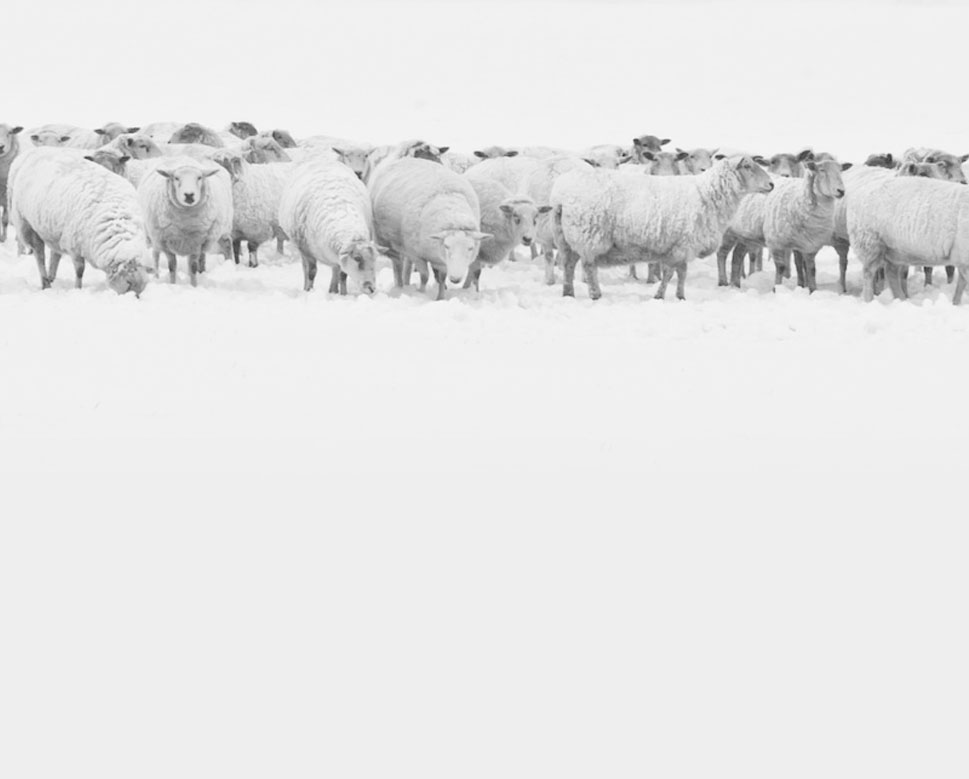
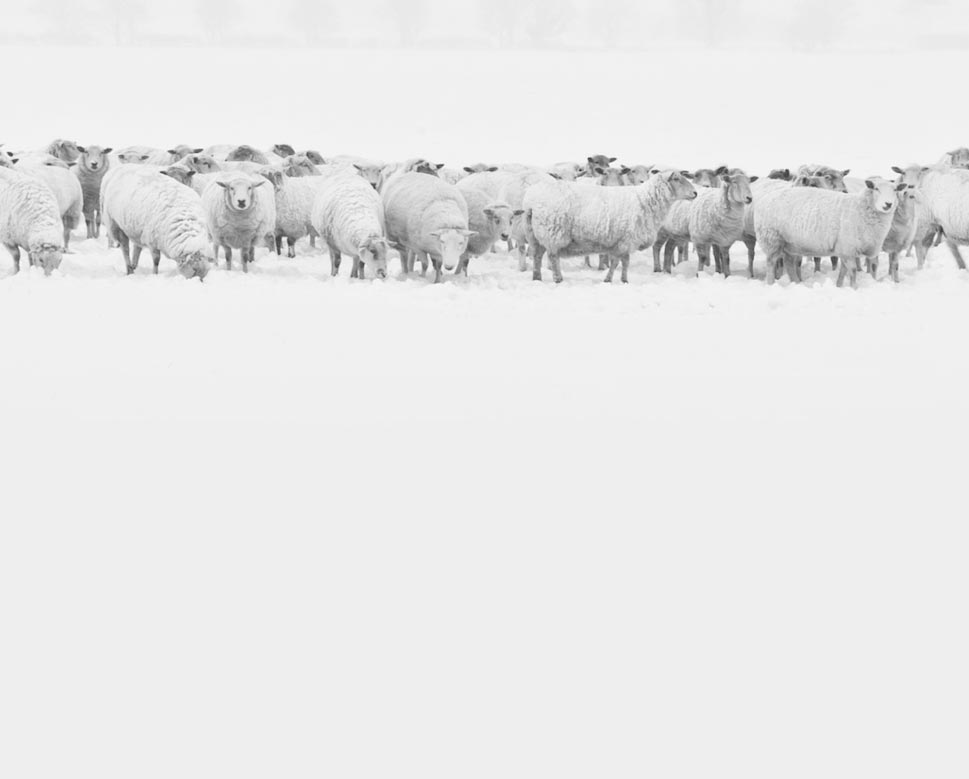
some editing

Changed region(s): [[0.0, 0.154, 1.0, 0.4005]]

diff --git a/assets/styles/main.min.css b/assets/styles/main.min.css
@@ -1,1 +1,1 @@
-a{text-decoration:none;color:white}a:hover{text-decoration:none}.smaller{font-size:.8rem;text-align:right;padding-top:.5rem}.highlight{background-color:#fffbcc;border-left:solid #d1cc96 8px;padding:.6rem;font-size:.9rem;text-align:left;margin:0 .5rem}.highlight p{margin-bottom:0}.pointer{cursor:pointer}.pad-r{padding-right:.5rem}h1{font-family:"Rajdhani",sans-serif;font-size:2.5em}h2{font-family:"Rajdhani",sans-serif;font-size:2.5em}h3{font-family:"Rajdhani",sans-serif;font-size:2em}h4{font-family:"Rajdhani",sans-serif;font-size:1.5em}h5{font-family:"Rajdhani",sans-serif;font-size:1em}p{font-family:"Ovo",serif;size:1rem}body{font-family:"Ovo",serif;size:1rem}.orange-img{height:5rem;width:5rem;display:inherit;padding-left:.25rem}header{height:100vh;background:url("/assets/img/cover-image-4.jpg") center center;background-size:cover;color:#f1f1f1}header h1{font-family:"Rajdhani",sans-serif;font-size:4em;font-weight:700}.shade{top:0;bottom:0;left:0;right:0;position:absolute;display:flex;align-items:flex-end}.intro-box{padding-bottom:2rem}.intro-box h1{margin-bottom:0}.header-icons{display:flex;justify-content:space-between;font-size:1.5rem}.header-icons a{color:#ff7314}.header-icons a:hover{color:#ffb07a}.main-section{padding:5rem 0;color:#333}.flexor-2{display:flex;align-items:center}.orange-btn{background-color:#ff7314;color:white;transition:all .3s linear}.orange-btn:hover{background-color:#e05b00}.circle{border-radius:100%;height:125px;width:125px;margin:1rem auto .5rem auto}.education-chunk{border-bottom:5px solid #ff7314}.education-highlight{border-bottom:10px solid #ff7314;margin-bottom:1rem}.arrow{width:0;height:0;border-left:2rem solid transparent;border-right:2rem solid transparent;margin:auto;margin-bottom:2rem}.orange{border-top:1rem solid #ff7314}.blue{border-top:1rem solid #6caedf}.wrk-history-chunk{border-bottom:5px solid #6caedf}.work-highlight{border-bottom:10px solid #6caedf;margin-bottom:1rem}.teal{border-bottom:5px solid #333;margin-bottom:1rem}.hobby-holder{display:flex;flex-wrap:wrap;justify-content:center}#hob-info{transition:all .3s linear}.hobbies{margin:.25rem;flex-basis:40%}.hobby-images{transition:all .3s linear;width:3.5rem;height:3.5rem;border-radius:10px;padding:.5rem;background-color:#333}.hobby-images:hover{background-color:#ff7314}.skills-section{background-image:url("/assets/img/circles-pattern-d.png");color:#ff7314}.skills-section h1{font-family:"Rajdhani",sans-serif;font-size:3em}.card-body{padding:.5rem}.skills-holder{display:flex;padding:5rem 5rem;justify-content:center;align-items:center}.skills-title{margin-right:3rem;flex-basis:60%;text-align:center}.skills-box{font-size:5rem;flex-basis:40%;text-align:center}.flexor{display:flex;flex-wrap:wrap;align-items:center}.projects-section{background-image:url("/assets/img/flock-projects.jpg");background-size:cover;background-position:top;color:#333}.project-info p{margin-bottom:0}.projects-holder{padding:5rem 2rem}.projects-holder h1{font-size:3em}.projects-title{text-align:center;padding-bottom:1em}.projects-box{display:flex;justify-content:space-around;flex-wrap:wrap}.projects-box h4{font-size:1.75rem;font-weight:700}.projects-box a{font-weight:700;color:#ff7314}.projects-box a:hover{color:#e05b00}.projects{margin:1rem;flex-basis:40%;text-align:center}.projects p{text-align:left}.purp-shadow{box-shadow:0 0 21px 1px #b8b8b8;margin-bottom:1rem}.contact-section{color:#333}.contact-shade{top:0;bottom:0;left:0;right:0;background:url("/assets/img/circles-pattern.png") center center;padding:2rem 0}#contacto{text-align:center;font-size:3em}.form-group label{font-weight:700;font-family:"Rajdhani",sans-serif}.footy{background-size:cover}.footy-pad{padding:2rem 0}@media screen and (max-width: 720px){.skills-holder{flex-direction:column;padding:5rem 1rem}.skills-title{flex-basis:30%;margin-right:0}.skills-box{flex-basis:70%}}@media screen and (max-width: 576px){.left-sidebar{padding-bottom:3rem}.hobbies{flex-basis:10%}.sidebar-navi{margin:0 4em}header h1{font-size:3.25em}}
+a{text-decoration:none;color:white}a:hover{text-decoration:none}li a{color:#ff7314}.smaller{font-size:.8rem;text-align:right;padding-top:.5rem}.highlight{background-color:#fffbcc;border-left:solid #d1cc96 8px;padding:.6rem;font-size:.9rem;text-align:left;margin:0 .5rem}.highlight p{margin-bottom:0}.pointer{cursor:pointer}.pad-r{padding-right:.5rem}h1{font-family:"Rajdhani",sans-serif;font-size:2.5em}h2{font-family:"Rajdhani",sans-serif;font-size:2.5em}h3{font-family:"Rajdhani",sans-serif;font-size:2em}h4{font-family:"Rajdhani",sans-serif;font-size:1.5em}h5{font-family:"Rajdhani",sans-serif;font-size:1em}p{font-family:"Ovo",serif;font-size:1.1rem}li{font-size:1.1rem}body{font-family:"Ovo",serif;size:1rem}.orange-img{height:5rem;width:5rem;display:inherit;padding-left:.25rem}header{height:100vh;background:url("/assets/img/cover-image-4.jpg") center center;background-size:cover;color:#f1f1f1}header h1{font-family:"Rajdhani",sans-serif;font-size:4em;font-weight:700}.shade{top:0;bottom:0;left:0;right:0;position:absolute;display:flex;align-items:flex-end}.intro-box{padding-bottom:2rem}.intro-box h1{margin-bottom:0}.header-icons{display:flex;justify-content:space-between;font-size:1.5rem}.header-icons a{color:#ff7314}.header-icons a:hover{color:#ffb07a}.main-section{padding:5rem 0;color:#333}.flexor-2{display:flex;align-items:center}.orange-btn{background-color:#b570ae;color:white;transition:all .3s linear}.orange-btn:hover{background-color:#9f5398}.circle{border-radius:100%;height:125px;width:125px;margin:1rem auto .5rem auto}.education-chunk{border-bottom:5px solid #ff7314}.education-highlight{border-bottom:10px solid #ff7314;margin-bottom:1rem}.arrow{width:0;height:0;border-left:2rem solid transparent;border-right:2rem solid transparent;margin:auto;margin-bottom:2rem}.orange{border-top:1rem solid #ff7314}.blue{border-top:1rem solid #6caedf}.wrk-history-chunk{border-bottom:5px solid #6caedf}.work-highlight{border-bottom:10px solid #6caedf;margin-bottom:1rem}.teal{border-bottom:5px solid #333;margin-bottom:1rem}.hobby-holder{display:flex;flex-wrap:wrap;justify-content:center}#hob-info{transition:all .3s linear}.hobbies{margin:.25rem;flex-basis:40%}.hobby-images{transition:all .3s linear;width:3.5rem;height:3.5rem;border-radius:10px;padding:.5rem;background-color:#333}.hobby-images:hover{background-color:#ff7314}.skills-section{background-image:url("/assets/img/circles-pattern-d.png");color:#ff7314}.skills-section h1{font-family:"Rajdhani",sans-serif;font-size:3em}.card-body{padding:.5rem}.skills-holder{display:flex;padding:5rem 5rem;justify-content:center;align-items:center}.skills-title{margin-right:3rem;flex-basis:60%;text-align:center}.skills-box{font-size:5rem;flex-basis:40%;text-align:center}.flexor{display:flex;flex-wrap:wrap;align-items:center}.projects-section{background-image:url("/assets/img/flock-projects.jpg");background-size:contain;background-repeat:repeat-x;background-position:top;color:#333}.project-info p{margin-bottom:0}.projects-holder{padding:5rem 2rem}.projects-holder h1{font-size:3em}.projects-title{text-align:center;padding-bottom:1em}.projects-box{display:flex;justify-content:space-around;flex-wrap:wrap}.projects-box h4{font-size:1.75rem;font-weight:700}.projects-box a{font-weight:700;color:#ff7314}.projects-box a:hover{color:#e05b00}.projects{margin:1rem;flex-basis:30%;text-align:center}.projects p{text-align:left}.purp-shadow{box-shadow:0 0 21px 1px #b8b8b8;margin-bottom:1rem}.contact-section{color:#333}.contact-shade{top:0;bottom:0;left:0;right:0;background:url("/assets/img/circles-pattern.png") center center;padding:2rem 0}#contacto{text-align:center;font-size:3em}.form-group label{font-weight:700;font-family:"Rajdhani",sans-serif}.footy{background-size:cover}.footy-pad{padding:2rem 0}@media screen and (max-width: 720px){.skills-holder{flex-direction:column;padding:5rem 1rem}.skills-title{flex-basis:30%;margin-right:0}.skills-box{flex-basis:70%}}@media screen and (max-width: 576px){.left-sidebar{padding-bottom:3rem}.hobbies{flex-basis:10%}.sidebar-navi{margin:0 4em}header h1{font-size:3.25em}}

diff --git a/index.html b/index.html
@@ -12,6 +12,7 @@
     <link href='//cdn.jsdelivr.net/devicons/1.8.0/css/devicons.min.css' rel='stylesheet'>
     <link href="https://use.fontawesome.com/releases/v5.0.4/css/all.css" rel="stylesheet">
     <link href="https://fonts.googleapis.com/css?family=Ovo|Rajdhani:400,700" rel="stylesheet">
+    <link rel="shortcut icon" sizes="32x32" href="https://michaellambs.github.io/assets/img/michael-lamb-lambchopps.ico">
     <link rel="stylesheet" href="assets/styles/main.css">
 
 </head>
@@ -128,7 +129,7 @@
                             <div class="flexor-2">
                                 <div class="pad-r">
                                     <h4>Boise CodeWorks</h4>
-                                    <h5><em>Boise, Idaho</em></h5>
+                                    <h5><em>Boise, Idaho</em> | Jan 2018-Apr 2018</h5>
                                 </div>
                                 <div>
                                     <a href="https://boisecodeworks.com/" target="_blank"><img class="pointer" src="./assets/img/code-logo.png" height="50"></a>
@@ -138,7 +139,7 @@
                             <div class="flexor-2">
                                 <div class="pad-r">
                                     <h4>Oregon State University</h4>
-                                    <h5><em>Corvallis, Oregon</em></h5>
+                                    <h5><em>Corvallis, Oregon</em> | Sept 2007-Dec 2011</h5>
                                 </div>
                                 <div>
                                     <a href="https://oregonstate.edu/" target="_blank"><img class="pointer" src="./assets/img/beavers.png" height="50"></a>
@@ -154,37 +155,41 @@
                                 <em>Boise, Idaho</em>
                             </h4>
                             <h5>Graphic Designer | <em>Oct 2016-June 2017 (temp position)</em></h5>
-                            <p>Verandah is a promotional products company. I created packaging, designed apparel, communicated
-                                art details to manufacturers, edited websites, and provided client presentations.</p>
+                            <ul>
+                                <li>Verandah is a promotional products company.</li>
+                                <li>Created packaging, designed apparel, communicated art details to manufacturers, edited websites, and provided client presentations.</li>
+                            </ul>
                             <h4>SurveyMonkey |
                                 <em>Portland, Oregon</em>
                             </h4>
                             <h5>Account Manager/Renewals | <em>Nov 2014-May 2016</em></h5>
-                            <p>I joined SurveyMonkey right after they acquired FluidSurveys. I maintained relationships with
-                                all sales assisted FluidSurveys customers - $4.3 million in yearly revenue. I managed customer
-                                accounts, renewed yearly subscriptions, and upsold licenses. I also maintained a less than
-                                10% churn rate. I worked daily with our legal, finance, and sales operation teams to complete
-                                contracts, invoice customers, forecast, and track growth.</p>
+                            <ul>
+                                <li>Joined SurveyMonkey right after they acquired FluidSurveys.</li>
+                                <li>Maintained relationships with all sales assisted FluidSurveys customers - $4.3 million in yearly revenue.</li>
+                                <li>Managed customer accounts, renewed yearly subscriptions, and upsold licenses.</li>
+                                <li>Retained a less than 10% churn rate.</li>
+                                <li>Worked daily with our legal, finance, and sales operation teams to complete contracts, invoice customers, forecast, and track growth.</li>
+                            </ul>
                             <h4>Sweatshorts.co |
                                 <em>Portland, Oregon</em>
                             </h4>
                             <h5>Content Creator/SEO/Owner | <em>2014-present</em></h5>
-                            <p>
-                                <em>Sweatshorts.co</em> is a niche clothing website that utilizes search engine optimization
-                                (SEO) to drive traffic and sales. During this endeavor I have taught myself SEO, how to rank
-                                on Google, advertising copy, email marketing, and most importantly, what type of content
-                                attracts links. Currently, my website is on the first page of Google for a keyword (sweat
-                                shorts) that exceeds 12k searches a month. This is a passion project - keeping me eager to
-                                learn more & more about content creation.
-                            </p>
+                            <ul>
+                                <li><a href="http://www.sweatshorts.co/" target="_blank">Sweatshorts.co</a> is a niche clothing website that utilizes search engine optimization (SEO) to drive traffic and sales.</li>
+                                <li>During this endeavor I have taught myself SEO, how to rank on Google, advertising copy, email marketing, and most importantly, what type of content attracts links.</li>
+                                <li>Currently, my website is on the first page of Google for a keyword (sweat shorts) that exceeds 12k searches a month.</li>
+                            </ul>
                             <h4>Gameday Media |
                                 <em>Portland, Oregon</em>
                             </h4>
                             <h5>Graphic Desinger | <em>June 2012-Nov 2013</em></h5>
-                            <p>I created and designed media guides for sporting events. I decided the layout and flow of 80-page
-                                media booklets. I worked with multiple file formats to produce articles, rosters, and content.
-                                I maintained the team’s visual identity while creating unique eye-popping designs. I completed
-                                work on strict print deadlines, including last-minute changes to exceed customer needs.</p>
+                            <ul>
+                                <li>Created and designed media guides for sporting events.</li>
+                                <li>Decided the layout and flow of 80-page media booklets.</li>
+                                <li>Worked with multiple file formats to produce articles, rosters, and content.</li>
+                                <li>Maintained the team’s visual identity while creating unique eye-popping designs.</li>
+                                <li>Completed work on strict print deadlines, including last-minute changes to exceed customer needs.</li>
+                            </ul>
                         </div>
                         <div class="arrow blue"></div>
                     </div>

diff --git a/assets/styles/main.sass b/assets/styles/main.sass
@@ -16,6 +16,10 @@ a
     &:hover
         text-decoration: none
 
+li
+    & a
+        color: $orange
+            
 .smaller
     font-size: .8rem
     text-align: right
@@ -56,7 +60,10 @@ h5
 
 p
     font-family: $font-p
-    size: 1rem
+    font-size: 1.1rem
+
+li
+    font-size: 1.1rem
 
 body
     font-family: $font-p
@@ -116,11 +123,11 @@ header
     align-items: center
 
 .orange-btn
-    background-color: $orange
+    background-color: $purple
     color: white
     transition: all .3s linear
     &:hover
-        background-color: darken($orange, 10)
+        background-color: darken($purple, 10)
 
 .circle
     border-radius: 100%
@@ -219,7 +226,8 @@ header
 
 .projects-section
     background-image: url('/assets/img/flock-projects.jpg')
-    background-size: cover
+    background-size: contain
+    background-repeat: repeat-x
     background-position: top
     // background-attachment: fixed
     color: $black
@@ -252,7 +260,7 @@ header
 
 .projects
     margin: 1rem
-    flex-basis: 40%
+    flex-basis: 30%
     text-align: center
     & p
         text-align: left

diff --git a/assets/styles/main.css b/assets/styles/main.css
@@ -8,6 +8,10 @@ a:hover {
   text-decoration: none;
 }
 
+li a {
+  color: #ff7314;
+}
+
 .smaller {
   font-size: .8rem;
   text-align: right;
@@ -62,7 +66,11 @@ h5 {
 
 p {
   font-family: "Ovo", serif;
-  size: 1rem;
+  font-size: 1.1rem;
+}
+
+li {
+  font-size: 1.1rem;
 }
 
 body {
@@ -137,13 +145,13 @@ header h1 {
 }
 
 .orange-btn {
-  background-color: #ff7314;
+  background-color: #b570ae;
   color: white;
   transition: all .3s linear;
 }
 
 .orange-btn:hover {
-  background-color: #e05b00;
+  background-color: #9f5398;
 }
 
 .circle {
@@ -264,7 +272,8 @@ header h1 {
 /*********************Projects Section*****************************/
 .projects-section {
   background-image: url("/assets/img/flock-projects.jpg");
-  background-size: cover;
+  background-size: contain;
+  background-repeat: repeat-x;
   background-position: top;
   color: #333;
 }
@@ -308,7 +317,7 @@ header h1 {
 
 .projects {
   margin: 1rem;
-  flex-basis: 40%;
+  flex-basis: 30%;
   text-align: center;
 }
 
